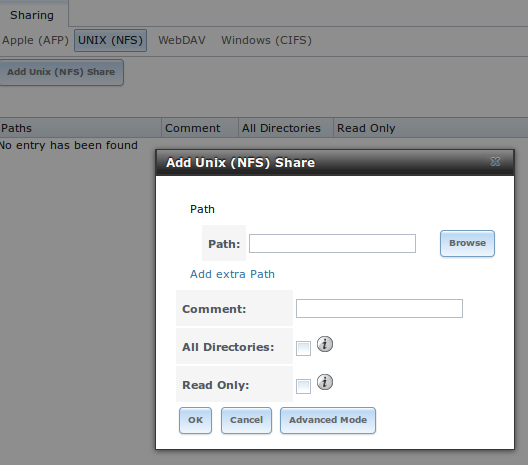
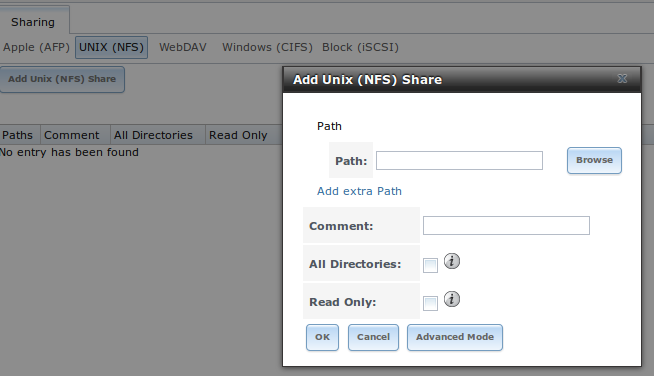
Update 2 images and remove deprecated option.

diff --git a/docs/userguide/freenas_sharing.rst b/docs/userguide/freenas_sharing.rst
@@ -73,8 +73,8 @@ If you click :menuselection:`Sharing --> Apple (AFP) Shares --> Add Apple (AFP) 
 |afp2.png|
 
 .. |afp2.png| image:: images/afp2.png
-    :width: 3.8in
-    :height: 3.4in
+    :width: 5.3in
+    :height: 2.4in
 
 Table 10.1a summarizes the available options when creating an AFP share. Some settings are only available in "Advanced Mode". To see these settings, either
 click the "Advanced Mode" button or configure the system to always display these settings by checking the box "Show advanced fields by default" in
@@ -181,8 +181,6 @@ In this configuration example, the AFP share has been configured for guest acces
 *   "Read-write Access": set to *nobody*
 
 #.  :menuselection:`Services --> AFP` has been configured as follows:
-
-*   "Server Name": *freenas*
 
 *   "Guest Access": checkbox is checked
 
@@ -303,8 +301,8 @@ To create an NFS share, click :menuselection:`Sharing --> Unix (NFS) Shares --> 
 |nfs2.png|
 
 .. |nfs2.png| image:: images/nfs2.png
-    :width: 4.4in
-    :height: 3.9in
+    :width: 5.5in
+    :height: 3.1in
 
 Once you press the "OK" button when creating the NFS share, a pop-up menu will ask "Would you like to enable this service?" Click "Yes" and
 :menuselection:`Services --> Control Services` will open and indicate whether or not the NFS service successfully started.
@@ -797,7 +795,6 @@ The process for configuring a share is as follows:
 
     * Repeat this process to create a user account for every user that will need access to the CIFS share
 
-    
 #.  If you are not using Active Directory or LDAP, create a group in :menuselection:`Account --> Groups --> Add Group`. Once the group is created, click its
     "Members" button and add the user accounts that you created in step 1.
 
